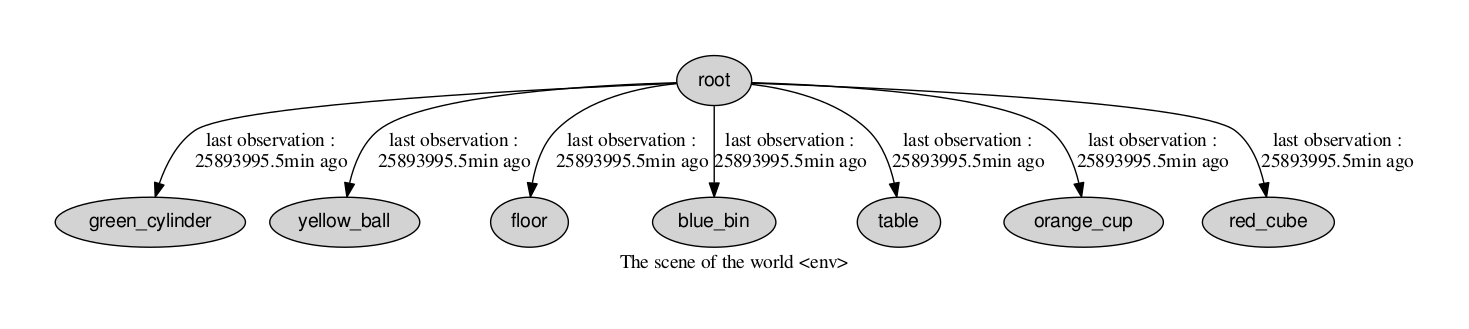
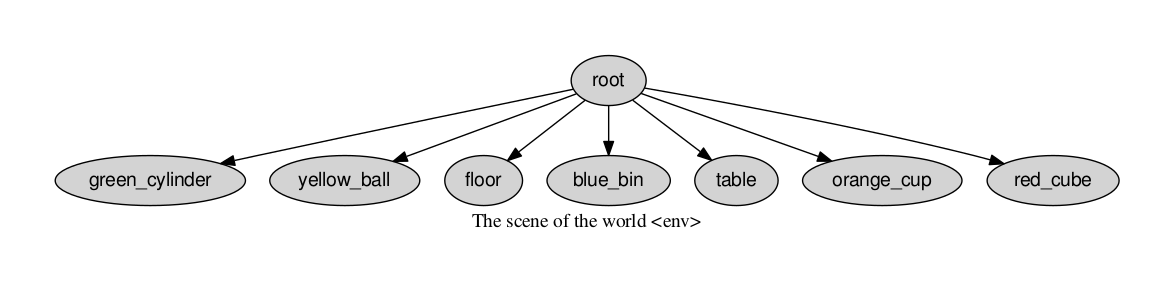
:bulb: update readme 	modifié :         QUICKSTART.md 	modifié :         img/scene.png 	modifié :         scripts/view_scene.py

diff --git a/scripts/view_scene.py b/scripts/view_scene.py
@@ -12,7 +12,7 @@ if __name__ == '__main__':
     parser.add_argument("world", help="The Underworlds world to monitor")
     args = parser.parse_args()
 
-    rospy.init_node("uwds_view_scene", anonymous=False)
+    rospy.init_node("uwds_view_scene_graph", anonymous=False)
     G = pgv.AGraph(strict=True, directed=True)
     # nodes attributes
     G.node_attr['style']= "filled"
@@ -41,11 +41,6 @@ if __name__ == '__main__':
         edge_to = node_names_map[node_id]
         duration = rospy.Time.now() - node.last_observation.data
         time_str = ""
-        if (nodes_map[node.id].last_observation.data != 0):
-            if (duration.to_sec()/60 < 1.0):
-                time_str="last observation :\n"+("%.3f"%(duration.to_sec()))+"s ago"
-            else:
-                time_str="last observation :\n"+("%.1f"%(duration.to_sec()/60))+"min ago"
-        G.add_edge(edge_from, edge_to, label=time_str)
+        G.add_edge(edge_from, edge_to)
     G.layout(prog='dot')
     G.draw("scene.pdf")

diff --git a/QUICKSTART.md b/QUICKSTART.md
@@ -48,12 +48,17 @@ First, launch the server with :
 ```
 roslaunch uwds uwds_server.launch
 ```
-Then launch the env provider that will create a world from a 3D file :
+Launch the *env_provider* that will create a world from a 3D file :
 ```
 roslaunch uwds env_provider.launch
 ```
+And after that launch the scene viewer that will publish the visualization topics :
 
-Start Rviz with :
+```
+roslaunch uwds scene_viewer.launch
+```
+
+Then start Rviz with :
 ```
 rviz
 ```
@@ -81,18 +86,18 @@ You should have something like that :
   <img src="img/topology.png" alt="topology"/>
 </p>
 
-This figure means that the provider writes into the world named *env* and the reader reads it.
+This figure means that the *env_provider* writes into the world named *env* and the *scene_viewer* reads it.
 
 You can also inspect the scene graph of the visualized world by using :
 ```
-rosrun uwds view_scene.py test
+rosrun uwds view_scene.py env
 evince scene.pdf
 ```
 
 This should generate this :
 
 <p align="center">
-  <img src="img/scene.png" alt="scene!"/>
+  <img src="img/scene.png" alt="scene"/>
 </p>
 
 As you notice, every node is at least parented to the root of the tree. The scene can be viewed in the same manner that the traditional `tf`.
